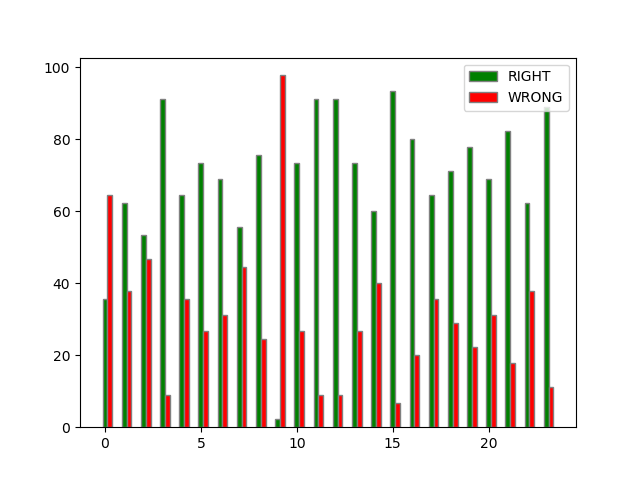
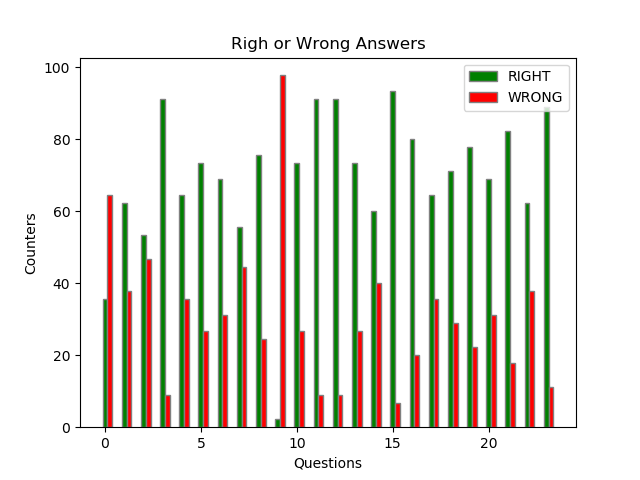
upgrade to statistics plot

Changed region(s): [[0.3438, 0.0625, 0.6562, 0.125], [0.4688, 0.9375, 0.5625, 1.0], [0.0312, 0.4375, 0.0625, 0.5625]]

diff --git a/statistics/plots.py b/statistics/plots.py
@@ -1,5 +1,58 @@
+from pprint import pprint
+
 import matplotlib.pyplot as plt
+import numpy
 import numpy as np
+from sklearn import preprocessing
+
+def get_error_bar_plot_time_questions(df_questions_statistics, cunks, type):
+
+    list_average_times = df_questions_statistics['AVERAGE_TIME']
+    list_standard_deviations = df_questions_statistics['STANDARD_DEVIATION']
+
+    sublists_average_times = numpy.split(list_average_times, cunks)
+    sublists_standard_deviations = numpy.split(list_standard_deviations, cunks)
+
+    for i in range(0, cunks):
+        fig, ax = plt.subplots()
+        barWidth = 0.25
+        br = np.arange(len(sublists_average_times[i]))
+        ax.bar(br, sublists_average_times[i], yerr=sublists_standard_deviations[i], width=barWidth, edgecolor='grey')
+        ax.set_title('Answer Time for '+ type + ' - ' + str(i+1))
+        ax.set_xlabel(type)
+        ax.set_ylabel('Average Answer Time (s)')
+        plt.savefig('plots/statistics_times_for_' + type.lower() +'_' + str(i+1) + '.png')
+        plt.close()
+
+def get_error_bar_plot_time_questions_normalized(df_questions_statistics, chunks, type):
+
+    list_average_times = df_questions_statistics['AVERAGE_TIME']
+    list_standard_deviations = df_questions_statistics['STANDARD_DEVIATION']
+
+    normalized_average_times = []
+    normalized_standard_deviations = []
+
+    for x in list_average_times:
+        x_norm = (x - min(list_average_times)) / ( max(list_average_times) - min(list_average_times) )
+        normalized_average_times.append(x_norm)
+
+    for x in list_standard_deviations:
+        x_norm = (x - min(list_standard_deviations)) / ( max(list_standard_deviations) - min(list_standard_deviations) )
+        normalized_standard_deviations.append(x_norm)
+
+    sublists_average_times = numpy.split(numpy.array(normalized_average_times), chunks)
+    sublists_standard_deviations = numpy.split(numpy.array(normalized_standard_deviations), chunks)
+
+    for i in range(0, chunks):
+        fig, ax = plt.subplots()
+        barWidth = 0.25
+        br = np.arange(len(sublists_average_times[i]))
+        ax.bar(br, sublists_average_times[i], yerr=sublists_standard_deviations[i], width=barWidth, edgecolor='grey')
+        ax.set_title('Normalized Average Answer Time for '+ type + ' - ' + str(i+1))
+        ax.set_xlabel(type)
+        ax.set_ylabel('Normalized Answer Time')
+        plt.savefig('plots/statistics_times_for_'+ type.lower() +'_normalized_' + str(i+1) + '.png')
+        plt.close()
 
 
 def get_questions_statistics_bar_plot(df_questions_statistics):
@@ -13,33 +66,67 @@ def get_questions_statistics_bar_plot(df_questions_statistics):
         list_rights.append(n_right)
         list_wrongs.append(n_wrong)
 
-    plt.figure()
+    fig, ax = plt.subplots()
     barWidth = 0.25
     br1 = np.arange(len(list_rights))
     br2 = [x + barWidth for x in br1]
 
-    plt.bar(br1, list_rights, color='g', width=barWidth, edgecolor='grey', label='RIGHT')
-    plt.bar(br2, list_wrongs, color='r', width=barWidth, edgecolor='grey', label='WRONG')
+    ax.set_title("Righ or Wrong Answers")
+    ax.set_xlabel("Questions")
+    ax.set_ylabel("Counters")
+
+    ax.bar(br1, list_rights, color='g', width=barWidth, edgecolor='grey', label='RIGHT')
+    ax.bar(br2, list_wrongs, color='r', width=barWidth, edgecolor='grey', label='WRONG')
 
     plt.legend()
     plt.savefig('plots/questions_statistics.png')
     plt.close()
 
 
-def get_answers_times_statistics_bar_plot(df_questions_statistics):
+def get_answers_times_statistics_bar_plot(df_questions_statistics, type):
 
     list_times = df_questions_statistics['AVERAGE_TIME']
+    st_dev = df_questions_statistics['STANDARD_DEVIATION']
 
     plt.figure()
     barWidth = 0.25
     br = np.arange(len(list_times))
 
-    plt.bar(br, list_times, width=barWidth, edgecolor='grey', label='AVERAGE_TIME')
-
-    plt.legend()
-    plt.savefig('plots/average_times_for_questions.png')
+    fig, ax = plt.subplots()
+    ax.set_title('Answer Time for ' + type + ' - Total')
+    ax.set_xlabel(type)
+    ax.set_ylabel('Answer Time (s)')
+    plt.bar(br, list_times, yerr=st_dev, width=barWidth, edgecolor='grey')
+    plt.savefig('plots/average_times_for_'+ type.lower() +'.png')
     plt.close()
 
+def get_answers_times_statistics_bar_plot_normalized(df_questions_statistics, type):
+
+    list_average_times = df_questions_statistics['AVERAGE_TIME']
+    list_standard_deviations = df_questions_statistics['STANDARD_DEVIATION']
+
+    normalized_average_times = []
+    normalized_standard_deviations = []
+
+    for x in list_average_times:
+        x_norm = (x - min(list_average_times)) / ( max(list_average_times) - min(list_average_times) )
+        normalized_average_times.append(x_norm)
+
+    for x in list_standard_deviations:
+        x_norm = (x - min(list_standard_deviations)) / ( max(list_standard_deviations) - min(list_standard_deviations) )
+        normalized_standard_deviations.append(x_norm)
+
+    plt.figure()
+    barWidth = 0.25
+    br = np.arange(len(list_average_times))
+
+    fig, ax = plt.subplots()
+    ax.set_title('Normalized Answer Time for ' + type + ' - Total')
+    ax.set_xlabel(type)
+    ax.set_ylabel('Normalized Answer Time')
+    plt.bar(br, normalized_average_times, yerr=normalized_standard_deviations, width=barWidth, edgecolor='grey')
+    plt.savefig('plots/normalized_average_times_for_' + type.lower() + '.png')
+    plt.close()
 
 def get_labels_pie_plot(df_label, label_column, path_init):
 

diff --git a/main.py b/main.py
@@ -22,7 +22,10 @@ df_correct_answer = pd.read_csv(config['path']['solutions_complete_dataset'])
 
 # df_questions_statistics = statistics.questions_statistics.get_questions_statistics_df(df_answers_for_questions, n_users)
 # df_questions_statistics.to_csv('datasets/results/questions_statistics.csv', index=False)
-# statistics.plots.get_questions_statistics_bar_plot(df_questions_statistics)
+
+df_questions_statistics = pd.read_csv('datasets/results/questions_statistics.csv')
+
+statistics.plots.get_questions_statistics_bar_plot(df_questions_statistics)
 
 # 4) Compute DataFrame with times spent for each questions to get each user answer
 
@@ -38,10 +41,18 @@ df_times_for_users.to_csv("datasets/results/times_for_users.csv", index=False)
 
 df_statistics_times_for_questions = statistics.time_statistics.get_statistics_times_for_questions_df(df_times_for_question, n_users)
 df_statistics_times_for_questions.to_csv("datasets/results/statistics_times_for_questions.csv", index=False)
-statistics.plots.get_answers_times_statistics_bar_plot(df_statistics_times_for_questions)
+statistics.plots.get_answers_times_statistics_bar_plot(df_statistics_times_for_questions, 'Questions')
+statistics.plots.get_answers_times_statistics_bar_plot_normalized(df_statistics_times_for_questions, 'Questions')
+statistics.plots.get_error_bar_plot_time_questions(df_statistics_times_for_questions, 2, 'Questions')
+statistics.plots.get_error_bar_plot_time_questions_normalized(df_statistics_times_for_questions, 2, 'Questions')
 
 df_statistics_times_for_users = statistics.time_statistics.get_statistics_times_for_users_df(df_times_for_users)
 df_statistics_times_for_users.to_csv("datasets/results/statistics_times_for_users.csv", index=False)
+
+statistics.plots.get_answers_times_statistics_bar_plot(df_statistics_times_for_users, 'Users')
+statistics.plots.get_answers_times_statistics_bar_plot_normalized(df_statistics_times_for_users, 'Users')
+statistics.plots.get_error_bar_plot_time_questions(df_statistics_times_for_users, 5, 'Users')
+statistics.plots.get_error_bar_plot_time_questions_normalized(df_statistics_times_for_users, 5, 'Users')
 
 # 6) Compute DataFrame with all the information related to each user answer
 
